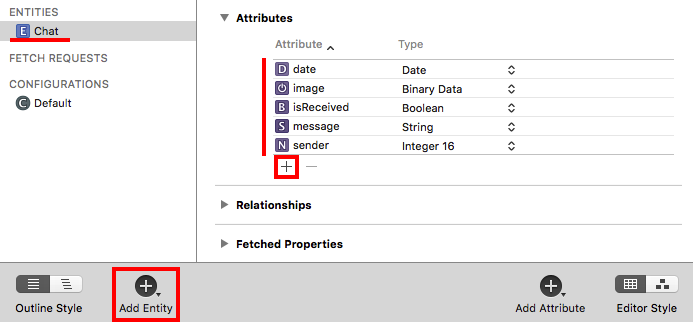
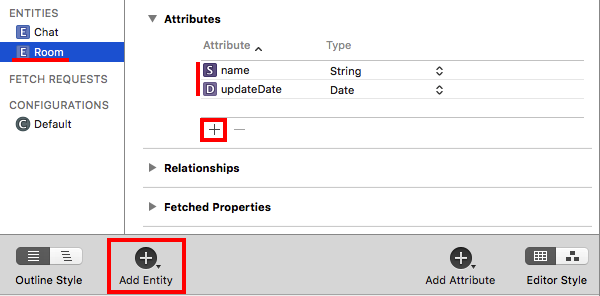
modified: iOS-coredata-in-chapter-1

Changed region(s): [[0.0, 0.0, 1.0, 1.0], [0.0, 0.2432, 0.18, 0.3649], [0.0, 0.3953, 0.12, 0.4561]]

diff --git a/_posts/2016-10-20-iOS-coredata-in-chapter-1.md b/_posts/2016-10-20-iOS-coredata-in-chapter-1.md
@@ -1,0 +1,207 @@
+---
+layout: post
+title:  "iOS Core Data in Swift #1"
+date:   2016-10-20 10:16:00 +09
+categories: Study
+---
+<h4> Core Data Framework </h4>
+: 앱 내부의 Database(sqlite3)를 SQL없이 접근 가능 하게 해주는(wrapping) Framework
+
+---
+<h4> 목표 </h4>
+
+: CoreData를 이용해 Database Table을 만들어 보고, Record를 Insert, Update, Delete 해보자.
+
+
+: 방이 있는 채팅창 만들기
+
+*아직 CoreData에 대해 잘 알지 못하여 무작정 따라해 보는 것으로 정리한다. 추후 깨달음이 있으면 수정하는걸로..*
+
+---
+
+<h4> #1 Core Data 설정하기 </h4>
+
+---
+
+<h4> Project 생성 </h4>
+
+* Use Core Data 선택 후 생성
+
+  ![coredata_create_project](/assets/images/coreData/coredata_create_project.png)
+
+  기존 프로젝트에선 Xcode navigation bar > File > New > File > Core Data > Data Model 로 생성 가능
+
+* Project 구조를 보면, `CoreDataTest.xcdatamodeld` 파일을 볼 수 있다.
+
+  ![coredata_tree](/assets/images/coreData/coredata_tree.png)
+
+* `AppDelegate.swift`에 아래와 같은 코드가 자동으로 추가 된 것을 볼 수 있다.
+
+  *자동 추가 되는 이유가 있을텐데, 현재 이 게시글은 아래 코드를 사용하지 않는다(...)*
+
+  ![coredata_appdelegate_auto_added_code](/assets/images/coreData/coredata_appdelegate_auto_added_code.png)
+
+---
+<h4> Database Schema 만들기 </h4>
+
+CoreData에서는 Table은 `Entity`, Field는 `Attribute`, ForeignKey는 `Relationship`으로 정의되어 있다.
+
+`Fetched Property`는 SQL문법에서 WHERE 구문이라고 생각하면 된다.
+
+|     DB     |      CoreData     |
+|:----------:|:-----------------:|
+|    Table   |       Entity      |
+|:----------:|:-----------------:|
+|    Field   |      Attribute    |
+|:----------:|:-----------------:|
+| ForeignKey |    Relationship   |
+|:----------:|:-----------------:|
+|    WHERE   |  Fetched Property |
+
+* **Schema**
+
+  ![coredata_schema](/assets/images/coreData/coredata_schema.png)
+
+* **Entity 만들기**
+
+  CoreDataTest.xcdatamodeld 선택 후 Add Entity > Entity 이름 변경 > Attributes 추가
+
+  * Room
+
+  ![coredata_create_schema](/assets/images/coreData/coredata_create_schema.png)
+
+  * Chat
+
+  ![coredata_create_schema2](/assets/images/coreData/coredata_create_schema2.png)
+
+  Editor Style을 변경하면 Graph 형식으로 볼 수도 있다!
+
+  ![coredata_editor_style](/assets/images/coreData/coredata_editor_style.png)
+
+* **Relationship 설정하기**
+
+  * Room
+
+  ![coredata_relationship_room](/assets/images/coreData/coredata_relationship_room.png)
+
+  * Chat
+
+  ![coredata_relationship_chat](/assets/images/coreData/coredata_relationship_chat.png)
+
+  선이 생겼다! 뭔가 이어진듯한 느낌!
+
+  화살표는 Entity사이의 관계를 나타내는데 Default로 To One type으로 설정된다.
+
+  ![coredata_editor_style_relationship](/assets/images/coreData/coredata_editor_style_relationship.png)
+
+  Room과 Chat의 관계는 1:N 관계이므로 수정하자.
+
+  Room에 설정한 Relationship(chat)을 선택 후 우측 설정 창에서 Type `To Many`로 수정,
+
+  Room이 삭제되었을 경우, Room에 연결된 Chat들을 자동 삭제해주기 위해 Delete Rule도 `Cascade`로 수정하였다.
+
+  *나는 어느 Relationship에서 Type 설정을 해줘야하는지 좀 헷갈렸다. 사실 N:1관계로 설정해 놓고 삽질을 하기도 했다(...)*
+
+  ![coredata_relationship_setting](/assets/images/coreData/coredata_relationship_setting.png)
+
+  Graph Style로 봤을때, Room과 Chat의 관계에 화살표가 2개가 생긴것으로 To Many type으로 바뀐 것을 확인 할 수 있다.
+
+  ![coredata_editor_style_relationship2](/assets/images/coreData/coredata_editor_style_relationship2.png)
+
+* **Retched Properties 설정하기**
+
+  *얘는 자료를 못찾았다.. 현재 코드에서 설정해주었는데 이는 추후 다른 chapter에서 다루도록 하겠다.*
+
+* **ManagedObject Subclass 생성**
+
+  Xcode Navigation bar > Edit > Create NSManagedObject Subclass... 선택
+
+  ![coredata_create_manage_object_subclass](/assets/images/coreData/coredata_create_manage_object_subclass.png)
+
+  아래와 같은 파일들이 자동 생성 되었다!
+
+  ~properties.swift 파일을 열어보면 내가 구성한 Attribute들로 변수들이 생성된 것을 볼 수 있다.
+
+  추후 이 변수들로 database에 접근 할 수 있다. (ORM의 개념이라고 보면 되고, 파일이 없어도 직접 접근의 방식으로 접근할 수도 있다.)
+
+  ![coredata_create_manage_object_subclass2](/assets/images/coreData/coredata_create_manage_object_subclass2.png)
+
+---
+<h4> Core Data Stack </h4>
+  * Core Data를 쓰기 위해 AppDelegate.swift에 아래와 같은 코드를 추가
+
+  {% highlight swift %}
+  // AppDelegate.swift
+
+  import CoreData
+
+  ...
+
+  // MARK: - Core Data Stack
+
+  lazy var applicationDocumentsDirectory: NSURL = {
+      // The directory the application uses to store the Core Data store file. This code uses a directory named "com.jqsoftware.MyLog" in the application's documents Application Support directory.
+      let urls = FileManager.default.urls(for: .documentDirectory, in: .userDomainMask)
+      return urls[urls.count-1] as NSURL
+  }()
+
+  lazy var managedObjectModel: NSManagedObjectModel = {
+      // momd : the managed object model uses to create the application's data model
+      let modelURL = Bundle.main.url(forResource: "CoreDataTest", withExtension: "momd")!
+      return NSManagedObjectModel(contentsOf: modelURL)!
+  }()
+
+  lazy var persistentStoreCoordinator: NSPersistentStoreCoordinator? = {
+      // The persistent store coordinator for the application. This implementation creates and return a coordinator, having added the store for the application to it. This property is optional since there are legitimate error conditions that could cause the creation of the store to fail.
+      // Create the coordinator and store
+      var coordinator: NSPersistentStoreCoordinator? = NSPersistentStoreCoordinator(managedObjectModel: self.managedObjectModel)
+      let url = self.applicationDocumentsDirectory.appendingPathComponent("CoreDataTest.sqlite")
+
+      print(url)
+
+      var error: NSError? = nil
+      var failureReason = "There was an error creating or loading the application's saved data."
+
+      do
+      {
+          try coordinator!.addPersistentStore(ofType: NSSQLiteStoreType, configurationName: nil, at: url, options: nil)
+      } catch let error as NSError {
+          coordinator = nil
+          var dict = [String: AnyObject]()
+          dict[NSLocalizedDescriptionKey] = "Failed to initialize the application's saved data" as AnyObject?
+          dict[NSLocalizedFailureReasonErrorKey] = failureReason as AnyObject?
+          dict[NSUnderlyingErrorKey] = error
+          //            error = NSError(domain: "YOUR_ERROR_DOMAIN", code: 9999, userInfo: dict)
+          // Replace this with code to handle the error appropriately.
+          // abort() causes the application to generate a crash log and terminate. You should not use this function in a shipping application, although it may be useful during development.
+          NSLog("Unresolved error \(error), \(error.userInfo)")
+          abort()
+      }
+
+      return coordinator
+  }()
+
+  lazy var managedObjectContext: NSManagedObjectContext? = {
+      // Returns the managed object context for the application (which is already bound to the persistent store coordinator for the application.) This property is optional since there are legitimate error conditions that could cause the creation of the context to fail.
+      let coordinator = self.persistentStoreCoordinator
+      if coordinator == nil {
+          //TODO: 예외처리?
+          return nil
+      }
+      var managedObjectContext = NSManagedObjectContext(concurrencyType: NSManagedObjectContextConcurrencyType.mainQueueConcurrencyType)
+      managedObjectContext.persistentStoreCoordinator = coordinator
+      return managedObjectContext
+  }()
+  {% endhighlight %}
+
+---
+<h4> 마무리 </h4>
+
+  너무 길어져서 Select, Insert, Update, Delete는 #2에서 진행하도록 한다.
+
+---
+<h4> 참고 </h4>
+
+[Apple Developer Core Data](https://developer.apple.com/library/content/documentation/Cocoa/Conceptual/CoreData/index.html)
+
+[core-data-and-swift by Bart Jacobs](https://code.tutsplus.com/series/core-data-and-swift--cms-907)
